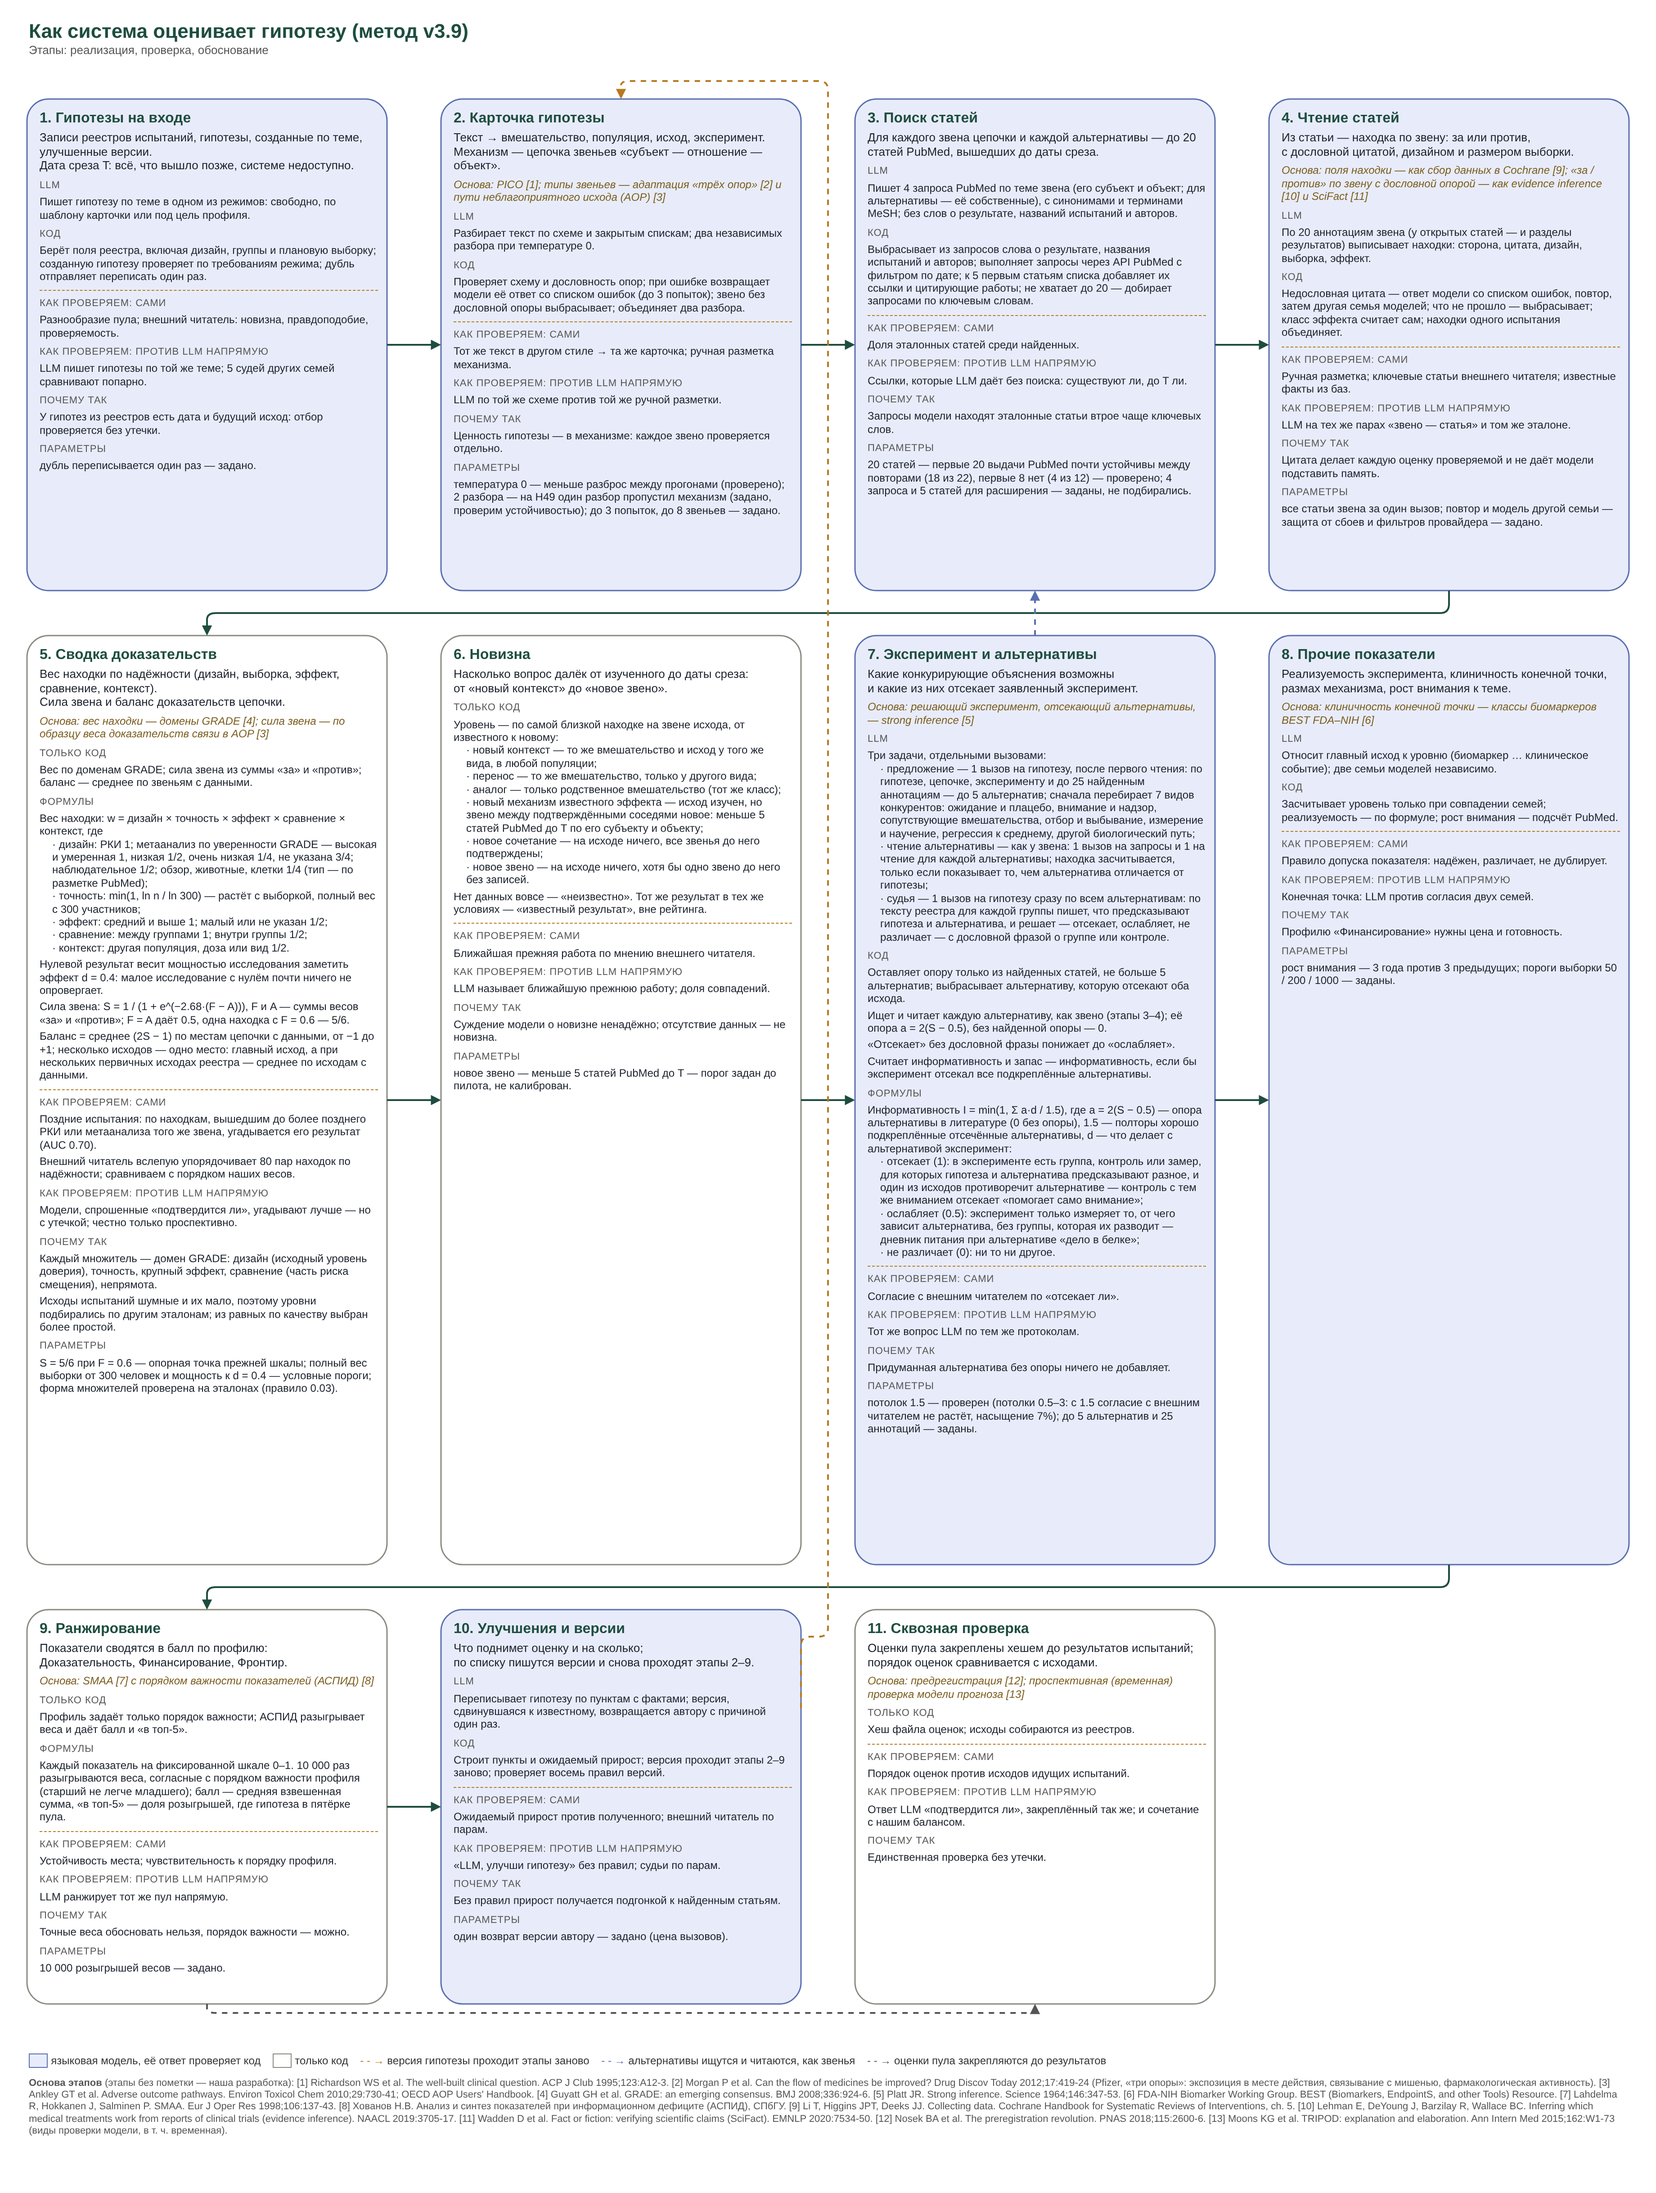
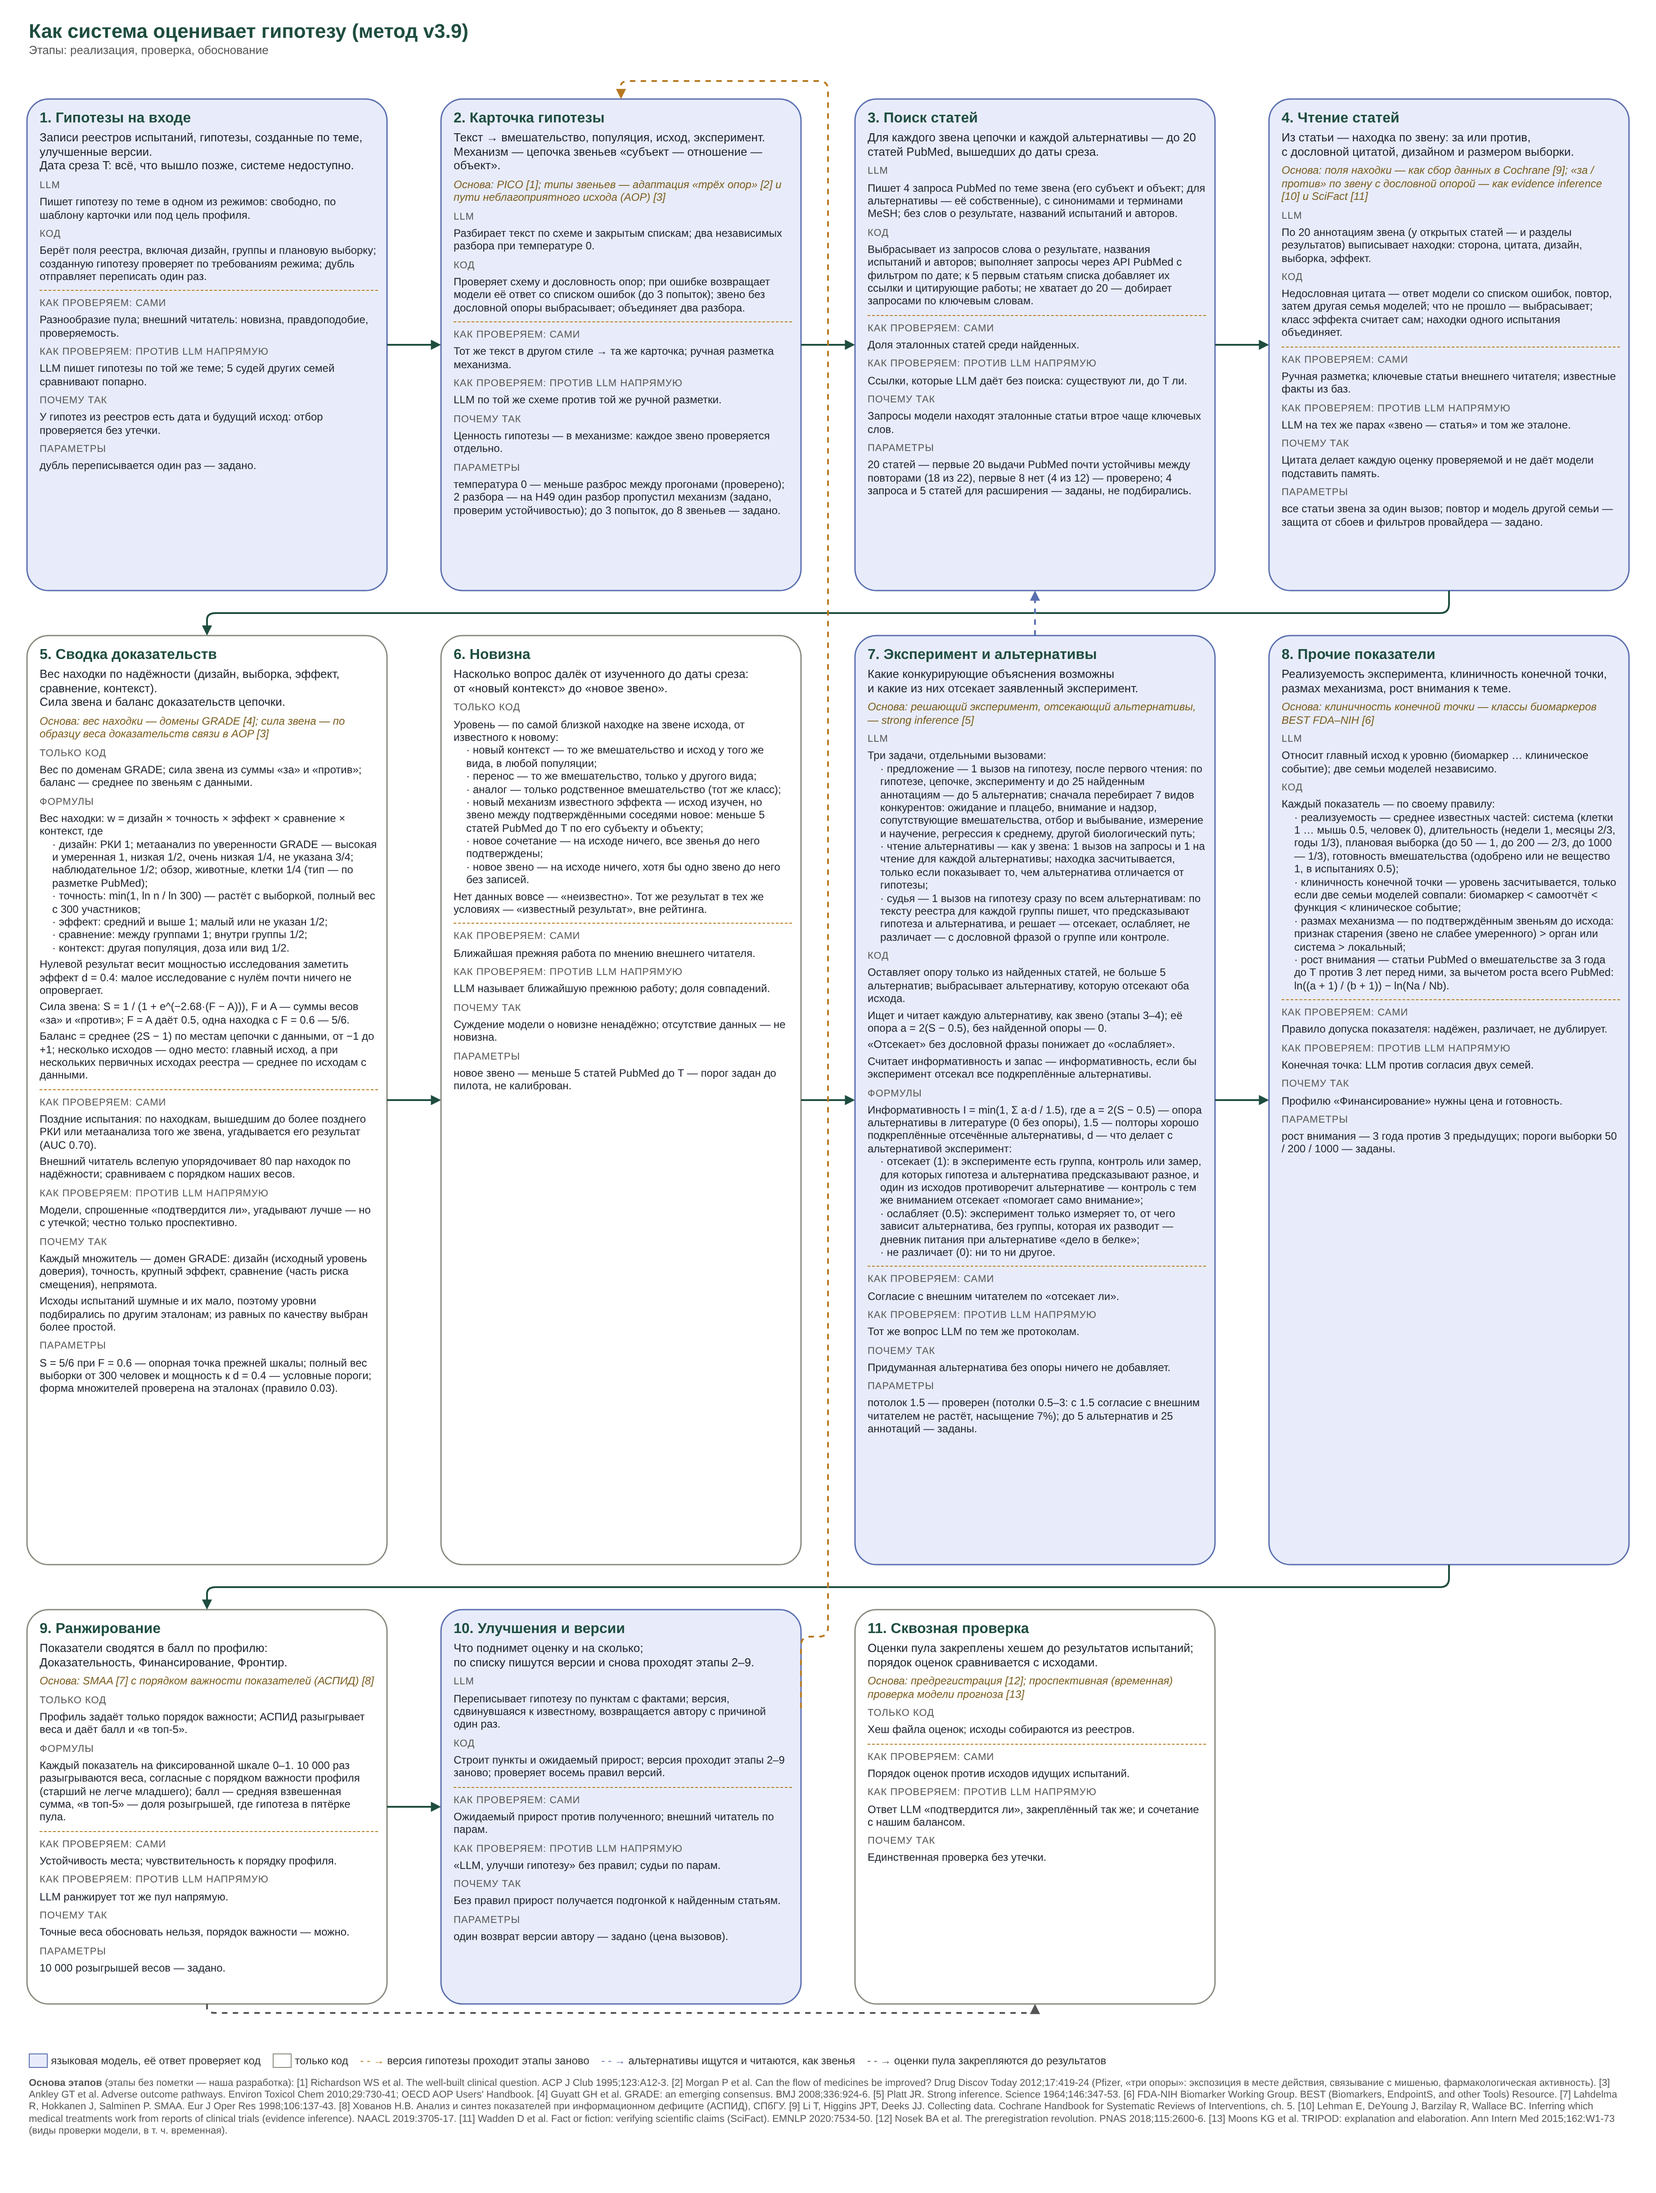
Flow scheme, stage 8: the rule of each indicator in the code section; H49 walkthrough: stage 8
Claude-Session: https://claude.ai/code/session_015QaY8wcM8f6FoFe6WxnTtU

Changed region(s): [[0.7812, 0.3432, 0.9688, 0.5304]]

diff --git a/docs/system/build_flow.py b/docs/system/build_flow.py
@@ -98,7 +98,11 @@ STAGES = [
          base=["Реализуемость эксперимента, клиничность конечной точки,",
                "размах механизма, рост внимания к теме."],
          llm=['Относит главный исход к уровню (биомаркер … клиническое событие); две семьи моделей независимо.'],
-         code=['Засчитывает уровень только при совпадении семей; реализуемость — по формуле; рост внимания — подсчёт PubMed.'],
+                  code=["Каждый показатель — по своему правилу:",
+               "  · реализуемость — среднее известных частей: система (клетки 1 … мышь 0.5, человек 0), длительность (недели 1, месяцы 2/3, годы 1/3), плановая выборка (до 50 — 1, до 200 — 2/3, до 1000 — 1/3), готовность вмешательства (одобрено или не вещество 1, в испытаниях 0.5);",
+               "  · клиничность конечной точки — уровень засчитывается, только если две семьи моделей совпали: биомаркер < самоотчёт < функция < клиническое событие;",
+               "  · размах механизма — по подтверждённым звеньям до исхода: признак старения (звено не слабее умеренного) > орган или система > локальный;",
+               "  · рост внимания — статьи PubMed о вмешательстве за 3 года до T против 3 лет перед ними, за вычетом роста всего PubMed: ln((a + 1) / (b + 1)) − ln(Na / Nb)."],
          own=["Правило допуска показателя: надёжен, различает, не дублирует."],
          base_llm=["Конечная точка: LLM против согласия двух семей."],
          why=["Профилю «Финансирование» нужны цена и готовность."]),

diff --git a/docs/walkthrough/H49.md b/docs/walkthrough/H49.md
@@ -305,3 +305,13 @@ I = min(1, Σ a·d / 1.5).
 | В отчёте у альтернатив нет статей, на которых держится их опора | показывать их, как у звеньев |
 
 **Решения по этапу 7 (2026-11-11):** находка засчитывается альтернативе только по её отличающей части (правило в промптах чтения v9–v13, мануал раздел 3); в отчёте у альтернатив — статьи опоры (проспективный отчёт обновлён); опора методических альтернатив по дизайну — в backlog; этап 7 на схеме расписан по задачам модели и кода.
+
+## Этап 8. Прочие показатели
+
+| Показатель | H49 | Как получено | Наблюдение |
+|---|---|---|---|
+| реализуемость | 0.667 | среднее известных частей: человек 0, недели 1, готовность (не вещество) 1; выборка была неизвестна | с полями дизайна (80 человек → 2/3) — тоже 0.667; число групп и инвазивные замеры пока не учитываются (backlog) |
+| клиничность конечной точки | функция | обе семьи моделей отнесли SPPB к «функции» | второй первичный исход (состав тела, «биомаркер») не учитывается: берётся первый |
+| размах механизма | локальный | подтверждённых звеньев до исхода нет — только исходы | у новой карточки звенья «мышечная масса» и «сила ног» — если подтвердятся, будет «орган / система» |
+| рост внимания | −0.21 | «squat exercise» в названии или аннотации: 120 статей за 3 года до T против 140 за 3 года перед ними, PubMed за то же время вырос на 5.5% (проверено заново) | зависит от формулировки: считается только точная фраза первого названия вмешательства («squat training», «squats» не входят) |
+| роль ИИ | нет | дословной фразы о роли ИИ в тексте нет | — |
